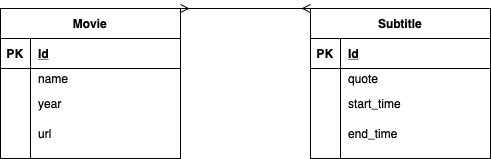
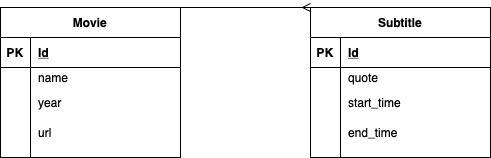
MQ-21 Change relation between subtitle and movie to one-to-many (#11)
We have `start_time` and `end_time` in Subtitle table, in this case we don't need many-to-many relation between Movie and Subtitle. One-to-many relation fits fine.

diff --git a/src/apps/movie_quotes/tests/unit/infrastructure/repositories/testSubtitleRepo.py b/src/apps/movie_quotes/tests/unit/infrastructure/repositories/testSubtitleRepo.py
@@ -1,22 +1,27 @@
 from django.test import TestCase
 from apps.movie_quotes.domain.repositories.SubtitleRepo import SubtitleRepo
 from apps.movie_quotes.infrastructure.django.models.SubtitleORM import SubtitleORM
+from apps.movie_quotes.infrastructure.django.models.MovieORM import MovieORM
 from apps.movie_quotes.domain.entities.Subtitle import Subtitle
 from apps.movie_quotes.domain.entities.Movie import Movie
 from datetime import datetime
 
-class TestSubtitle(TestCase):
+class TestSubtitleRepo(TestCase):
     @classmethod
     def setUpTestData(cls):
+        cls.movie_orm =  MovieORM.objects.create(name = "", year = 2000, url = "")
         cls.subtitle_orm3 = SubtitleORM.objects.create(quote = "Monday is a bad day!!!",
                                                        start_time = datetime.now(),
-                                                       end_time = datetime.now())
+                                                       end_time = datetime.now(),
+                                                       movie = cls.movie_orm)
         cls.subtitle_orm1 = SubtitleORM.objects.create(quote = "Hello, Vasya!",
                                                        start_time = datetime.now(),
-                                                       end_time = datetime.now())
+                                                       end_time = datetime.now(),
+                                                       movie = cls.movie_orm)
         cls.subtitle_orm2 = SubtitleORM.objects.create(quote = "Hello, Petya!",
                                                        start_time = datetime.now(),
-                                                       end_time = datetime.now())
+                                                       end_time = datetime.now(),
+                                                       movie = cls.movie_orm)
     def setUp(self):
         pass
 
@@ -64,7 +69,8 @@ class TestSubtitle(TestCase):
         quote = "I am a new one"
         subtitle_orm = SubtitleORM.objects.create(quote = quote,
                                                   start_time = datetime.now(),
-                                                  end_time = datetime.now())
+                                                  end_time = datetime.now(),
+                                                  movie = self.movie_orm)
         id = subtitle_orm.id
         expected_subtitle = {'id': id, 'quote': quote}
         subtitle_repo = SubtitleRepo()
@@ -86,7 +92,7 @@ class TestSubtitle(TestCase):
 
         movie = Movie(name = movie_name, year = year, url = url)
         subtitle = Subtitle(quote = quote, start_time = datetime.now(),
-                            end_time = datetime.now(), movies = [movie])
+                            end_time = datetime.now(), movie = movie)
         expected_movie = {'name': movie_name, 'year': year, 'url': url}
         subtitle_repo = SubtitleRepo()
 
@@ -96,7 +102,7 @@ class TestSubtitle(TestCase):
 
         # Assert
         self.assertIsNotNone(subtitle_orm)
-        movie_orm = subtitle_orm.movies.all().first()
+        movie_orm = subtitle_orm.movie
         self.assertIsNotNone(movie_orm)
         actual_movie = {'name': movie_orm.name, 'year': movie_orm.year, 'url': movie_orm.url}
         self.assertDictEqual(expected_movie, actual_movie)

diff --git a/src/apps/movie_quotes/domain/repositories/SubtitleRepo.py b/src/apps/movie_quotes/domain/repositories/SubtitleRepo.py
@@ -5,26 +5,22 @@ from typing import List
 
 class SubtitleRepo:
     def transform(self, subtitle_orm: SubtitleORM) -> Subtitle:
-        movies = []
-        for movie_orm in subtitle_orm.movies.all():
-            movies.append(MovieRepo().transform(movie_orm))
         return Subtitle(id = subtitle_orm.id, quote = subtitle_orm.quote,
                         start_time = subtitle_orm.start_time,
                         end_time = subtitle_orm.end_time,
-                        movies = movies)
+                        movie = MovieRepo().transform(subtitle_orm.movie))
 
     def create(self, subtitle):
+        movie_orm = MovieRepo().find_first(subtitle.movie)
+
+        if movie_orm is None:
+            movie_orm = MovieRepo().create(subtitle.movie)
+
         subtitle_orm = SubtitleORM.objects.create(quote = subtitle.quote,
                                                   start_time = subtitle.start_time,
-                                                  end_time = subtitle.end_time)
-
-        for movie in subtitle.movies:
-            movie_orm = MovieRepo().find_first(movie)
-
-            if movie_orm is None:
-                movie_orm = MovieRepo().create(movie)
-
-            subtitle_orm.movies.add(movie_orm)
+                                                  end_time = subtitle.end_time,
+                                                  movie = movie_orm)
+        return subtitle_orm
 
     def delete(self, id):
         subtitle_orm = SubtitleORM.objects.get(id = id)

diff --git a/src/apps/movie_quotes/domain/entities/Subtitle.py b/src/apps/movie_quotes/domain/entities/Subtitle.py
@@ -1,12 +1,12 @@
 from apps.movie_quotes.domain.entities.Movie import Movie
 
 class Subtitle(object):
-    def __init__(self, id = None, quote = '', start_time = None, end_time = None, movies = []):
+    def __init__(self, id = None, quote = '', start_time = None, end_time = None, movie = None):
         self._id = id
         self._quote = quote
         self._start_time = start_time
         self._end_time = end_time
-        self._movies = movies
+        self._movie = movie
 
     @property
     def id(self):
@@ -25,8 +25,8 @@ class Subtitle(object):
         return self._end_time
 
     @property
-    def movies(self):
-        return self._movies
+    def movie(self):
+        return self._movie
 
     @id.setter
     def id(self, id):
@@ -44,9 +44,6 @@ class Subtitle(object):
     def end_time(self, end_time):
         self._end_time = end_time
 
-    @movies.setter
-    def movies(self, movies):
-        self._movies = movies
-
-    def add_movie(self, movie):
-        self._movies.append(movie)
+    @movie.setter
+    def movie(self, movie):
+        self._movie = movie

diff --git a/src/apps/movie_quotes/infrastructure/django/models/SubtitleORM.py b/src/apps/movie_quotes/infrastructure/django/models/SubtitleORM.py
@@ -1,6 +1,4 @@
 from django.db import models
-from django.contrib.postgres.search import SearchVectorField
-from django.contrib.postgres.indexes import GinIndex
 from apps.movie_quotes.infrastructure.django.models.MovieORM import MovieORM
 
 class SubtitleORM(models.Model):
@@ -10,4 +8,4 @@ class SubtitleORM(models.Model):
     quote = models.CharField(max_length = 500, db_index = True)
     start_time = models.TimeField()
     end_time = models.TimeField()
-    movies = models.ManyToManyField(MovieORM)
+    movie = models.ForeignKey(MovieORM, on_delete=models.CASCADE)

diff --git a/src/apps/movie_quotes/tests/unit/infrastructure/repositories/testMovieRepo.py b/src/apps/movie_quotes/tests/unit/infrastructure/repositories/testMovieRepo.py
@@ -2,9 +2,8 @@ from django.test import TestCase
 from apps.movie_quotes.domain.repositories.MovieRepo import MovieRepo
 from apps.movie_quotes.infrastructure.django.models.MovieORM import MovieORM
 from apps.movie_quotes.domain.entities.Movie import Movie
-from datetime import datetime
 
-class TestSubtitle(TestCase):
+class TestMovieRepo(TestCase):
     @classmethod
     def setUpTestData(cls):
         pass
